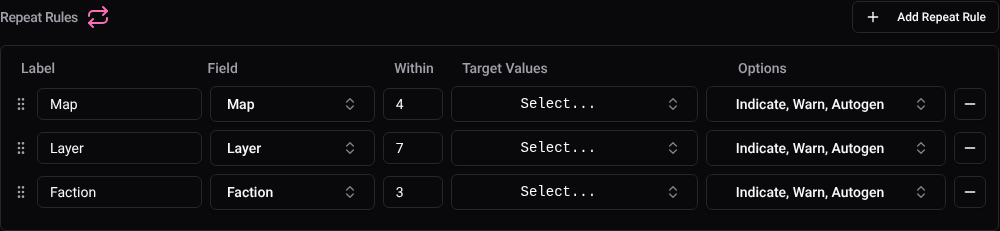
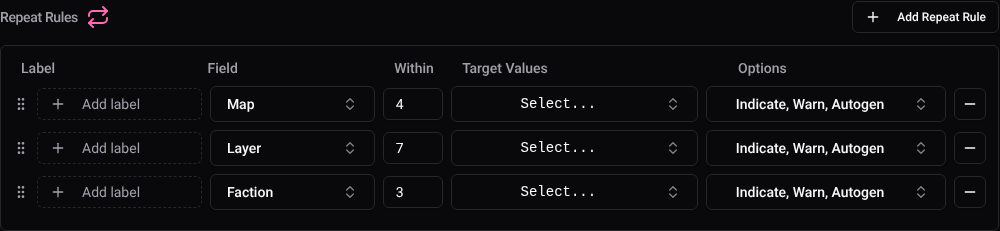
feat(settings): repeat rule labels are optional and need not be unique
Adding a rule to a pool that already had a Map rule produced a duplicate label, which the schema rejected: the
save button greyed out and the only way forward was to rename a rule you had no interest in naming. Labels were
compulsory but almost never wanted, since every default one just repeated the field name.

A rule is now named after its field unless it is given a label of its own, and two rules may share one. An
unlabelled rule shows an "Add label" button in place of the label box; emptying the box again takes the name away.

Constraint ids are the reason this needed more than a schema change: they were built from the rule's label, and
they key repeat match descriptors, violation identity, the queue and layer-table indicators and the save
warnings, all by equality. They are built from the rule's position now, which is the only identity a rule has.
Nothing persists a constraint id, so no data moves.

RepeatRuleSchema is part of the plugin API, so API_VERSION goes to 0.2.0.

Written by Claude Opus 5 in Claude Code.

Changed region(s): [[0.031, 0.6061, 0.155, 0.6667], [0.031, 0.4242, 0.155, 0.4848], [0.031, 0.7879, 0.155, 0.8788]]

diff --git a/test/e2e/queue-constraints.test.ts b/test/e2e/queue-constraints.test.ts
@@ -1,13 +1,30 @@
+import type { Page } from '@playwright/test'
+
 import * as FB from '@/models/filter-builders'
 
 import { createAppFixture } from '../harness/app-fixture'
 import { filter, LAYERS, layerTag, layerText, queue, queueItem, selectableFilter } from '../harness/arrange'
+import { savedPool } from '../harness/inspect'
 import { expect, test } from './fixtures'
 
 // What a queued layer violates has to be visible on the item itself: the indicators are the only thing
 // standing between an admin and saving a queue that repeats a map or leaves the pool. They come from two
 // independent sources -- the pool's repeat rules and its filters -- so both are exercised here, on a queue
 // arranged so that each item carries a different combination of them.
+
+// rules carry no id, so the seeded pool's one Map rule is found by its field
+function mapRuleSaved(app: Parameters<typeof savedPool>[0]) {
+	return savedPool(app).repeatRules.find((rule) => rule.field === 'Map')!
+}
+
+// A save pushes the settings back, which toasts, and the toast lands over the window's own save button. It
+// dismisses itself, but not while the pointer is on it -- and the pointer is exactly there, having just clicked
+// the button underneath. So consecutive saves move the pointer off first and then wait it out.
+async function saveSettings(page: Page) {
+	await page.mouse.move(10, 10)
+	await expect(page.locator('[data-sonner-toast]')).toHaveCount(0, { timeout: 15_000 })
+	await page.getByRole('button', { name: 'Save Changes' }).click()
+}
 
 test.describe('queue item constraints', () => {
 	test('indicates repeat-rule violations and filter matches on the items that carry them', async ({ page }) => {
@@ -342,23 +359,15 @@ test.describe('queue item constraints', () => {
 			await expect(section.getByText('planned')).toBeVisible()
 
 			await page.getByRole('button', { name: 'Save Changes' }).click()
-			await app.waitFor(
-				() => {
-					const db = app.readDb()
-					try {
-						const row = db.prepare(`SELECT settings FROM servers WHERE id = ?`).get(app.serverId) as { settings: string }
-						const pool = JSON.parse(row.settings).json.queue.mainPool as { skipWarningsForTags?: string[] }
-						return pool.skipWarningsForTags?.includes(planned.id) ?? false
-					} finally {
-						db.close()
-					}
-				},
-				{ label: 'skipWarningsForTags persisted' },
-			)
+			await app.waitFor(() => savedPool(app).skipWarningsForTags?.includes(planned.id) ?? false, {
+				label: 'skipWarningsForTags persisted',
+			})
 
 			await page.getByRole('button', { name: 'Repeat Rules' }).click()
-			// a rule has no identity of its own, so it is found by the label it was seeded with
-			const mapRule = page.getByRole('listitem').filter({ has: page.locator('input[value="Map"]') })
+			// a rule has no identity of its own, so it is found by the field its unlabelled row is named after
+			const mapRule = page
+				.getByRole('listitem')
+				.filter({ has: page.getByRole('combobox', { name: 'Rule' }).getByText('Map', { exact: true }) })
 			// the row's third combobox, after the field picker and the target values
 			const options = mapRule.getByRole('combobox').nth(2)
 			await expect(options).toContainText('Autogen')
@@ -368,25 +377,24 @@ test.describe('queue item constraints', () => {
 			await expect(options).not.toContainText('Autogen')
 
 			await page.getByRole('button', { name: 'Save Changes' }).click()
-			await app.waitFor(
-				() => {
-					const db = app.readDb()
-					try {
-						const row = db.prepare(`SELECT settings FROM servers WHERE id = ?`).get(app.serverId) as { settings: string }
-						const rules = JSON.parse(row.settings).json.queue.mainPool.repeatRules as { label: string; autogen?: boolean }[]
-						return rules.find((rule) => rule.label === 'Map')?.autogen === undefined
-					} finally {
-						db.close()
-					}
-				},
-				{ label: 'the Map rule stopped constraining generation' },
-			)
+			await app.waitFor(() => mapRuleSaved(app).autogen === undefined, { label: 'the Map rule stopped constraining generation' })
 			// the save round-trip must not put the option back
 			await page.reload()
 			await expect(page.getByRole('button', { name: 'Pool Configuration' })).toBeVisible({ timeout: 20_000 })
 			await page.getByRole('button', { name: 'Pool Configuration' }).click()
 			await page.getByRole('button', { name: 'Repeat Rules' }).click()
 			await expect(mapRule.getByRole('combobox').nth(2)).not.toContainText('Autogen')
+
+			// an unlabelled rule offers the box rather than showing it; emptying it again takes the label away.
+			// Save is disabled until the debounced write lands, so clicking it waits for that on its own.
+			await mapRule.getByRole('button', { name: 'Add label' }).click()
+			await mapRule.getByRole('textbox', { name: 'Label' }).fill('Recent map')
+			await saveSettings(page)
+			await app.waitFor(() => mapRuleSaved(app).label === 'Recent map', { label: 'the Map rule took its label' })
+
+			await mapRule.getByRole('textbox', { name: 'Label' }).fill('')
+			await saveSettings(page)
+			await app.waitFor(() => mapRuleSaved(app).label === undefined, { label: 'the Map rule gave its label back' })
 		} finally {
 			await app.dispose()
 		}

diff --git a/src/components/pool-config-panels.tsx b/src/components/pool-config-panels.tsx
@@ -459,11 +459,42 @@ function RuleDropSeparator({ position, panelId, idx }: { position: 'before' | 'a
 
 const RULE_ROW_GRID = 'grid grid-cols-[auto_minmax(0,2fr)_minmax(0,2fr)_60px_minmax(0,3fr)_minmax(240px,2fr)_auto] items-center gap-2'
 
+// A rule's name is its label, or its field when it has none. Most rules never get one, so the box only appears
+// once asked for; emptying it again unsets the label, and the button comes back when the row next re-seeds.
+function RuleLabelCell(props: { label: string | undefined; disabled: boolean; onChange: (label: string) => void }) {
+	const [open, setOpen] = React.useState(props.label !== undefined)
+	const setLabel = useDebounced({ onChange: props.onChange, delay: 250 })
+	if (!open) {
+		return (
+			<Button
+				variant="ghost"
+				disabled={props.disabled}
+				onClick={() => setOpen(true)}
+				className="h-8 w-full justify-start border border-dashed px-3 font-normal text-muted-foreground"
+			>
+				<Icons.Plus className="mr-2 h-3 w-3" />
+				{tr.text(SETTINGS_Msgs.repeatRuleAddLabel())}
+			</Button>
+		)
+	}
+	return (
+		<Input
+			autoFocus={props.label === undefined}
+			aria-label={tr.text(SETTINGS_Msgs.repeatRuleLabel())}
+			placeholder={tr.text(SETTINGS_Msgs.repeatRuleLabel())}
+			defaultValue={props.label ?? ''}
+			disabled={props.disabled}
+			onChange={(e) => setLabel(e.target.value)}
+			className="h-8"
+		/>
+	)
+}
+
 function RepeatRuleRow(props: {
 	index: number
 	panelId: string
 	api: PoolConfigApi
-	// signals the panel to remount the (uncontrolled) rows so they re-seed after a shift/programmatic label change
+	// signals the panel to remount the (uncontrolled) rows so they re-seed once a delete or a reorder shifts them
 	onStructural: () => void
 }) {
 	const { index, api, onStructural } = props
@@ -473,18 +504,14 @@ function RepeatRuleRow(props: {
 	const rule = usePoolValue(api, rulePath) as SETTINGS.PoolRepeatRuleConfig
 	const drag = DndKit.useDraggable({ type: 'repeat-rule', id: ruleDragId(props.panelId, index) }, { feedback: 'default' })
 
-	const setLabel = useDebounced({
-		onChange: (label: string) => api.set([...rulePath, 'label'], label),
-		delay: 250,
-	})
+	// an empty box is how a label is taken away again, so it unsets rather than saving ''
+	const setLabel = (label: string) => api.set([...rulePath, 'label'], label.trim() || undefined)
 
 	const setField = (field: LQY.RepeatRuleField) => {
 		api.set([...rulePath, 'field'], field)
-		api.set([...rulePath, 'label'], field)
 		if (!LQY.isTeamSpecificRepeatRuleField(field)) api.set([...rulePath, 'crossTeam'], undefined)
 		// values named for the old field match nothing under the new one, which would leave the rule silently inert
 		api.set([...rulePath, 'targetValues'], undefined)
-		onStructural()
 	}
 
 	const setWithin = useDebounced({
@@ -577,15 +604,7 @@ function RepeatRuleRow(props: {
 			>
 				<Icons.GripVertical className="h-4 w-4" />
 			</button>
-			<Input
-				placeholder={tr.text(SETTINGS_Msgs.repeatRuleLabel())}
-				defaultValue={rule.label ?? rule.field}
-				disabled={!!api.writeDenied}
-				onChange={(e) => {
-					setLabel(e.target.value)
-				}}
-				className="h-8"
-			/>
+			<RuleLabelCell label={rule.label} disabled={!!api.writeDenied} onChange={setLabel} />
 			<ComboBox
 				title={tr.text(SETTINGS_Msgs.repeatRuleFieldPicker())}
 				options={LQY.RepeatRuleFieldSchema.options}
@@ -654,7 +673,7 @@ export function RepeatRulesPanel(props: { className?: string; api: PoolConfigApi
 
 	const addRule = () => {
 		const rules = (api.getValue(rulesPath) as LQY.RepeatRule[] | null) ?? []
-		api.set(rulesPath, [...rules, { field: 'Map', within: 0, label: 'Map', indicate: true, warn: true }])
+		api.set(rulesPath, [...rules, { field: 'Map', within: 0, indicate: true, warn: true }])
 	}
 
 	// drag-to-reorder via the shared dnd-kit provider (see dndkit.client). The handler is registered once and reads

diff --git a/src/models/settings.models.ts b/src/models/settings.models.ts
@@ -581,9 +581,9 @@ export function defaultRbacSettings() {
 // autogen on by default: a fresh server that generates layers violating its own repeat rules is never what
 // anyone wants, and the per-rule option is there to turn it off
 const DEFAULT_REPEAT_RULE_CONFIGS: PoolRepeatRuleConfig[] = [
-	{ label: 'Map', field: 'Map', within: 4, autogen: true, warn: true, indicate: true },
-	{ label: 'Layer', field: 'Layer', within: 7, autogen: true, warn: true, indicate: true },
-	{ label: 'Faction', field: 'Faction', within: 3, autogen: true, warn: true, indicate: true },
+	{ field: 'Map', within: 4, autogen: true, warn: true, indicate: true },
+	{ field: 'Layer', within: 7, autogen: true, warn: true, indicate: true },
+	{ field: 'Faction', within: 3, autogen: true, warn: true, indicate: true },
 ]
 
 export const POOL_FILTER_APPLY_AS = z.enum(['regular', 'inverted', 'disabled'])
@@ -675,10 +675,7 @@ export const PoolConfigurationSchema = z.object({
 		.describe(
 			'How far apart a map, layer or faction has to be spaced in the queue and recent match history. Each rule can warn when it is ' +
 				'broken, constrain autogeneration, or both.',
-		)
-		.refine((rules) => new Set(rules.map((r) => r.label)).size === rules.length, {
-			error: 'Repeat rule labels must be unique',
-		}),
+		),
 })
 
 export type PoolConfiguration = z.infer<typeof PoolConfigurationSchema>
@@ -978,8 +975,9 @@ export function remindersEnabled(settings: PublicServerSettings) {
 	return settings.remindersAndAnnouncementsEnabled && !settings.updatesToSquadServerDisabled
 }
 
-export function getRepeatRuleConstraintId(poolName: string, opts: { label: string }) {
-	return `layer-pool:${poolName}:${opts.label}`
+// keyed on the rule's position, which is the only identity a rule has: labels are optional and need not be unique
+export function getRepeatRuleConstraintId(poolName: string, index: number) {
+	return `layer-pool:${poolName}:${index}`
 }
 
 // the per-rule switches, in the shape CB.repeatRule takes. Every path that builds a rule's constraint goes through
@@ -1042,17 +1040,17 @@ export function getSettingsConstraints(settings: PublicServerSettings, opts?: { 
 		for (const { filterId, applyAs } of queue.mainPool.constrainGeneration) {
 			constraints.push(CB.filterEntity(`gen:${filterId}`, filterId, { filterApplState: applyAs }))
 		}
-		for (const rule of queue.mainPool.repeatRules) {
-			if (!rule.autogen) continue
-			constraints.push(CB.repeatRule(getRepeatRuleConstraintId('mainPool', { label: rule.label }), rule))
-		}
+		queue.mainPool.repeatRules.forEach((rule, index) => {
+			if (!rule.autogen) return
+			constraints.push(CB.repeatRule(getRepeatRuleConstraintId('mainPool', index), rule))
+		})
 	} else {
 		const poolFilterConstraint = getPoolFilterConstraint(settings, { warn: true })
 		if (poolFilterConstraint) constraints.push(poolFilterConstraint)
 		constraints.push(...getIndicationAndWarnConstraints(settings))
-		for (const rule of queue.mainPool.repeatRules) {
-			constraints.push(CB.repeatRule(getRepeatRuleConstraintId('mainPool', { label: rule.label }), rule, repeatRuleConstraintOpts(rule)))
-		}
+		queue.mainPool.repeatRules.forEach((rule, index) => {
+			constraints.push(CB.repeatRule(getRepeatRuleConstraintId('mainPool', index), rule, repeatRuleConstraintOpts(rule)))
+		})
 	}
 
 	return constraints

diff --git a/src/models/settings.models.test.ts b/src/models/settings.models.test.ts
@@ -33,17 +33,6 @@ describe('pool configuration schema', () => {
 		expect(parsed).toEqual(config)
 		expect(SETTINGS.PoolConfigurationSchema.parse(parsed)).toEqual(parsed)
 	})
-
-	test('rejects duplicate repeat rule labels', () => {
-		expect(() =>
-			SETTINGS.PoolConfigurationSchema.parse({
-				repeatRules: [
-					{ label: 'Map', field: 'Map', within: 4 },
-					{ label: 'Map', field: 'Layer', within: 2 },
-				],
-			}),
-		).toThrow()
-	})
 })
 
 describe('pool membership constraint', () => {
@@ -79,9 +68,10 @@ describe('getSettingsConstraints', () => {
 			{ filterId: 'd-filter', applyAs: 'regular' },
 		],
 		constrainGeneration: [{ filterId: 'e-filter', applyAs: 'inverted' }],
+		// deliberately sharing a label, which rules may do: only their position tells them apart
 		repeatRules: [
-			{ label: 'Map', field: 'Map', within: 4, warn: true, indicate: true },
-			{ label: 'Gen', field: 'Layer', within: 2, autogen: true, warn: true, indicate: true },
+			{ label: 'Repeats', field: 'Map', within: 4, warn: true, indicate: true },
+			{ label: 'Repeats', field: 'Layer', within: 2, autogen: true, warn: true, indicate: true },
 		],
 	})
 
@@ -98,9 +88,10 @@ describe('getSettingsConstraints', () => {
 		// warn-only: no indication configured, but the warn still needs the constraint present
 		expect(byId.get('filter-cfg:d-filter')).toMatchObject({ showIndicator: 'disabled', warn: 'regular' })
 
-		// all repeat rules apply in selection/status contexts, autogen-flagged or not
-		expect(byId.get('layer-pool:mainPool:Map')).toMatchObject({ type: 'do-not-repeat' })
-		expect(byId.get('layer-pool:mainPool:Gen')).toMatchObject({ type: 'do-not-repeat' })
+		// all repeat rules apply in selection/status contexts, autogen-flagged or not, and the two same-labelled
+		// rules stay distinct
+		expect(byId.get('layer-pool:mainPool:0')).toMatchObject({ type: 'do-not-repeat', rule: { field: 'Map' } })
+		expect(byId.get('layer-pool:mainPool:1')).toMatchObject({ type: 'do-not-repeat', rule: { field: 'Layer' } })
 		// generation-only config stays out of selection contexts
 		expect(constraints.some((c) => c.type === 'filter-entity' && c.filterId === 'e-filter')).toBe(false)
 	})
@@ -111,9 +102,10 @@ describe('getSettingsConstraints', () => {
 
 		expect(byId.get('pool-filter')).toMatchObject({ filterApplState: 'regular', warn: 'disabled' })
 		expect(byId.get('gen:e-filter')).toMatchObject({ filterApplState: 'inverted' })
-		// only autogen-flagged repeat rules constrain generation
-		expect(byId.has('layer-pool:mainPool:Gen')).toBe(true)
-		expect(byId.has('layer-pool:mainPool:Map')).toBe(false)
+		// only autogen-flagged repeat rules constrain generation, and the id still names their position in the
+		// whole list rather than among the ones that survived
+		expect(byId.has('layer-pool:mainPool:1')).toBe(true)
+		expect(byId.has('layer-pool:mainPool:0')).toBe(false)
 		// indication lists don't constrain generation
 		expect(byId.has('filter-cfg:a-filter')).toBe(false)
 	})

diff --git a/src/messages/tutorials/layer-queue-tutorial.messages.ts b/src/messages/tutorials/layer-queue-tutorial.messages.ts
@@ -490,7 +490,7 @@ export namespace PoolSettings {
 		title: def('A repeat rule'),
 		body: def(
 			rt(
-				`<p>A repeat rule has a <em>Label</em>, a <em>Field</em> and a <em>Within</em> value. It matches an item in the queue or the match history when that item's <em>Field</em> -- map, gamemode, faction, and so on -- has already been played <em>Within</em> the configured range.</p>
+				`<p>A repeat rule has a <em>Field</em> and a <em>Within</em> value. It matches an item in the queue or the match history when that item's <em>Field</em> -- map, gamemode, faction, and so on -- has already been played <em>Within</em> the configured range. <em>Add label</em> gives the rule a name of its own; without one it is called after its field.</p>
 <p>For per-team fields like <em>Faction</em>, only repeats by the same persistent team (<teamA>Team A</teamA> or <teamB>Team B</teamB>) count, unless the rule has <em>Cross-team</em> enabled.</p>`,
 			),
 		),

diff --git a/src/systems/tutorials.server.ts b/src/systems/tutorials.server.ts
@@ -310,9 +310,9 @@ function buildSandboxSettings(owner: bigint, pacing: ScenarioDef<string>['pacing
 				// rule before the edit session warns about nothing, since only new violations stop a save. crossTeam,
 				// because consecutive items swap sides and the repeat would otherwise fall on the other persistent team.
 				repeatRules: [
-					{ label: 'Map', field: 'Map' as const, within: 4, autogen: true },
-					{ label: 'Layer', field: 'Layer' as const, within: 7, autogen: true },
-					{ label: 'Faction', field: 'Faction' as const, within: 3, autogen: true, warn: true, crossTeam: true },
+					{ field: 'Map' as const, within: 4, autogen: true },
+					{ field: 'Layer' as const, within: 7, autogen: true },
+					{ field: 'Faction' as const, within: 3, autogen: true, warn: true, crossTeam: true },
 				],
 			},
 		},

diff --git a/src/models/layer-queries.models.ts b/src/models/layer-queries.models.ts
@@ -23,7 +23,7 @@ export const RepeatRuleFieldSchema = z.enum(['Map', 'Layer', 'Gamemode', 'Factio
 export type RepeatRuleField = z.infer<typeof RepeatRuleFieldSchema>
 export const RepeatRuleSchema = z.object({
 	field: RepeatRuleFieldSchema,
-	label: z.string().min(1).max(100).describe('A label for the rule'),
+	label: z.string().min(1).max(100).optional().describe('What to call the rule wherever it is shown. Defaults to the field name.'),
 	targetValues: z.array(z.string()).optional().describe('A "Whitelist" of values which the rule applies to'),
 	within: z.number().min(0).max(50).describe('the number of matches in which this rule applies. if 0, the rule should be ignored'),
 	crossTeam: z

diff --git a/test/harness/inspect.ts b/test/harness/inspect.ts
@@ -28,6 +28,19 @@ export function savedBackburner(app: AppFixture): { itemId: string; description:
 	}
 }
 
+export function savedPool(app: AppFixture): {
+	skipWarningsForTags?: string[]
+	repeatRules: { field: string; label?: string; autogen?: boolean; targetValues?: string[] }[]
+} {
+	const db = app.readDb()
+	try {
+		const row = db.prepare(`SELECT settings FROM servers WHERE id = ?`).get(app.serverId) as { settings: string }
+		return JSON.parse(row.settings).json.queue.mainPool
+	} finally {
+		db.close()
+	}
+}
+
 export function latestMatch(app: AppFixture): { id: number; layerId: string } {
 	const db = app.readDb()
 	try {

diff --git a/src/models/plugins.models.ts b/src/models/plugins.models.ts
@@ -14,7 +14,7 @@ import type { MigrationDriver } from '@/server/migrate'
  * Pre-1.0, and semver's 0.x rule shifts every component one place left: the minor carries breaking
  * changes and additions move the patch. `pnpm api:report` enforces that against the report diff.
  */
-export const API_VERSION = { major: 0, minor: 1, patch: 3 }
+export const API_VERSION = { major: 0, minor: 2, patch: 0 }
 
 /** `API_VERSION` as a semver string, for the report header and anything shown to an admin. */
 export function formatApiVersion(): string {

diff --git a/src/frame-partials/pool-checkboxes.partial.ts b/src/frame-partials/pool-checkboxes.partial.ts
@@ -48,7 +48,7 @@ export function getToggledRepeatRuleConstraints(settings: SETTINGS.PublicServerS
 	for (let i = 0; i < repeatRules.length; i++) {
 		const rule = repeatRules[i]
 		dnrConstraints.push(
-			CB.repeatRule(SETTINGS.getRepeatRuleConstraintId('mainPool', rule), rule, {
+			CB.repeatRule(SETTINGS.getRepeatRuleConstraintId('mainPool', i), rule, {
 				filterApplState: applyAs,
 				...SETTINGS.repeatRuleConstraintOpts(rule),
 			}),

diff --git a/src/messages/settings.messages.tsx b/src/messages/settings.messages.tsx
@@ -285,6 +285,9 @@ export const addRepeatRule = def('Add Repeat Rule')
 
 export const repeatRuleLabel = def('Label')
 
+// on the button standing in for the label box on a rule that has none
+export const repeatRuleAddLabel = def('Add label')
+
 export const repeatRuleField = def('Field')
 
 export const repeatRuleWithin = def('Within')

diff --git a/test/fixtures/plugin-hello/plugin.ts b/test/fixtures/plugin-hello/plugin.ts
@@ -8,7 +8,7 @@ export default definePlugin({
 	id: 'hello',
 	name: 'Hello',
 	version: '1.0.0',
-	apiVersion: '^0.1',
+	apiVersion: '^0.2',
 	description: 'A packaged plugin used by the integration tests.',
 	configSchema: z.object({
 		greeting: z.string().prefault('hello').describe('What the plugin answers with'),
